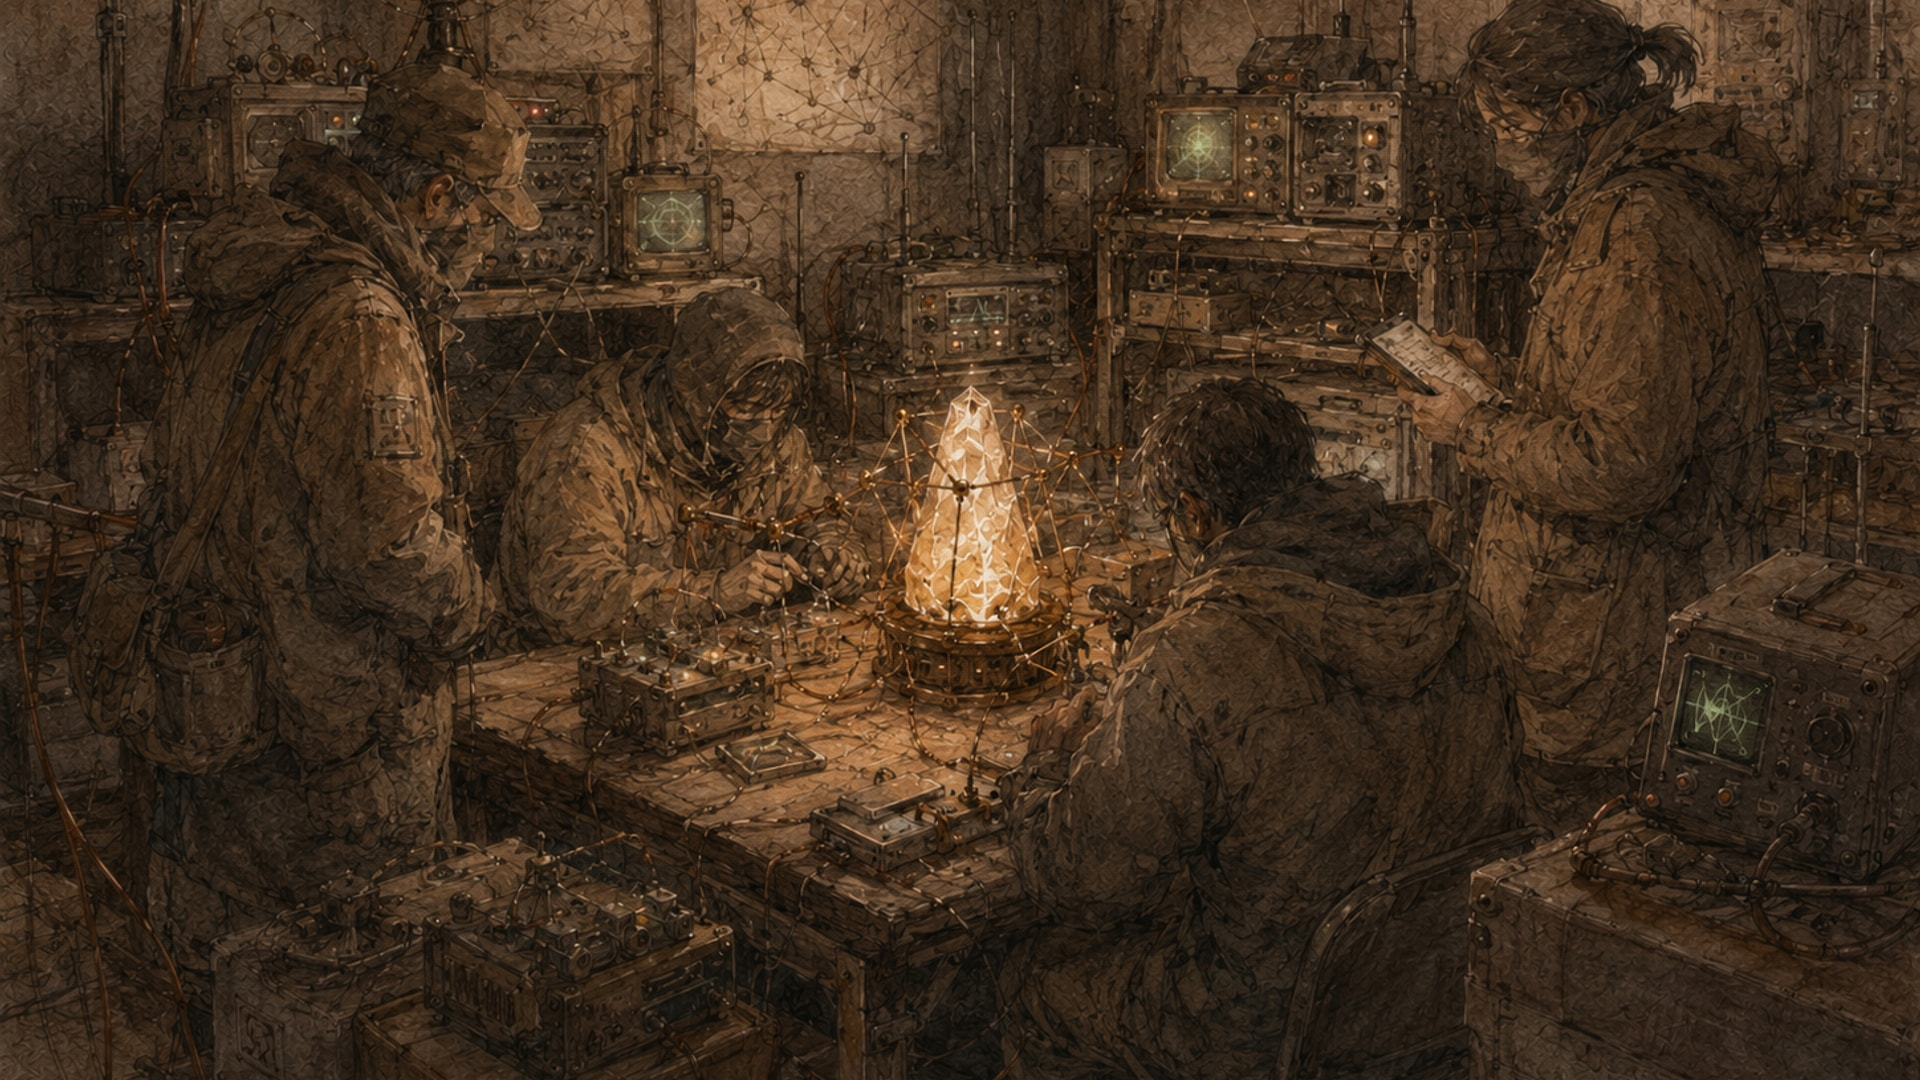
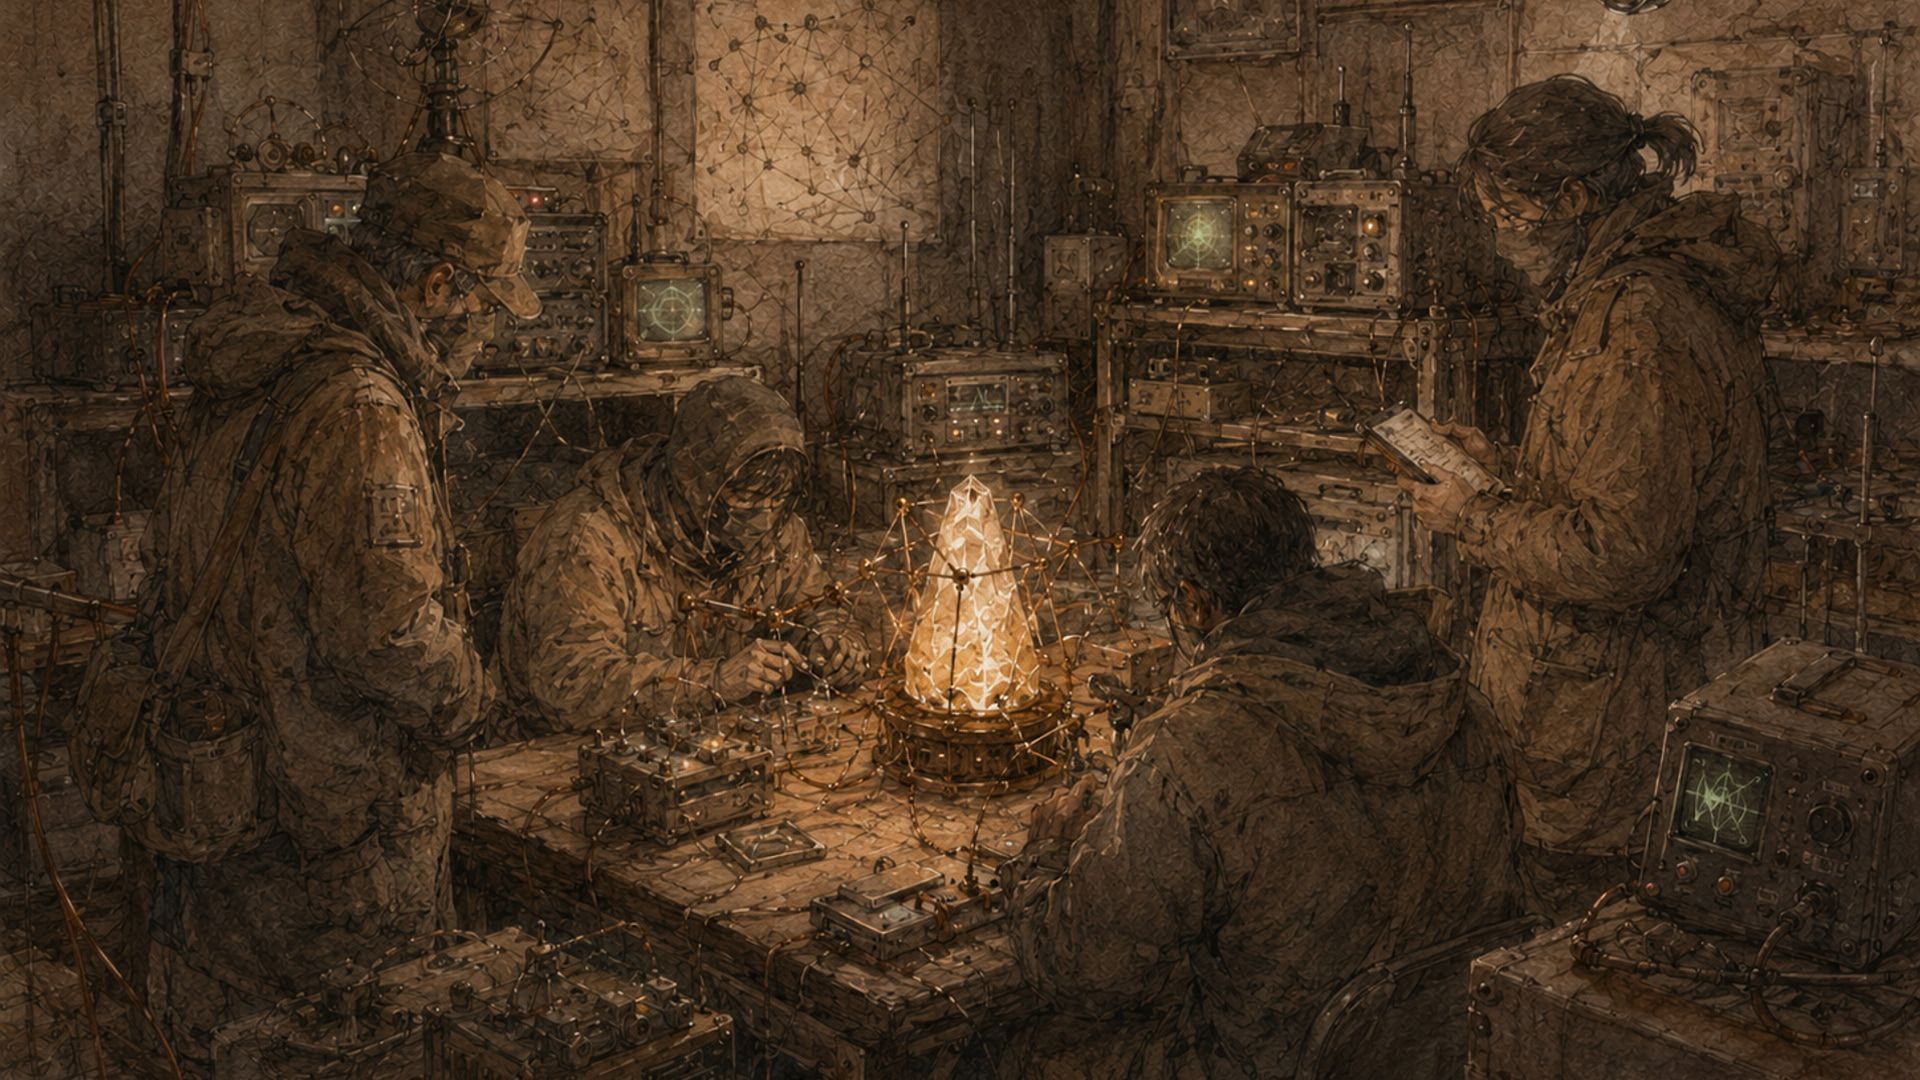
Fix wallpaper grain, add a contact page, state the data practices
Wallpapers back to 1920x1080 — a wallpaper has to be at least screen size, and
leaving the OS to enlarge a 1448px file does the job worse than we can. The
grain was the watercolour paper texture in the originals magnified by the
resize, not the resize itself: comparing lanczos, mitchell and cubic made no
visible difference, while a slight blur before the enlargement and a light
sharpen after settles the speckle and keeps the linework. Real dimensions are
printed on each card.

Contact page, linked from the footer. The site publishes reader submissions and
collects names and email addresses, which makes the author a Data Fiduciary
under India's DPDP Act 2023 and a grievance contact expected under the 2021
intermediary rules. Neither is met by a form — both assume a person who can be
written to. It also covers takedown of a contributor's own work, on request and
without needing a reason.

Privacy note now describes what actually happens: what the visit counting
records and does not, that buy clicks are counted, that Do Not Track is
honoured, and that the site sets no cookies at all — which is why there is no
consent banner.

Claude-Session: https://claude.ai/code/session_016Tq5mMVbgadVZHFMj4QrQ1

diff --git a/src/lib/site.ts b/src/lib/site.ts
@@ -140,6 +140,7 @@ export const navMore = [
 ] as const;
 
 export const footerLinks = [
+  { href: '/contact', label: 'Contact' },
   { href: '/privacy', label: 'Privacy' },
   { href: '/terms', label: 'Terms' },
   { href: '/rss.xml', label: 'RSS' },
